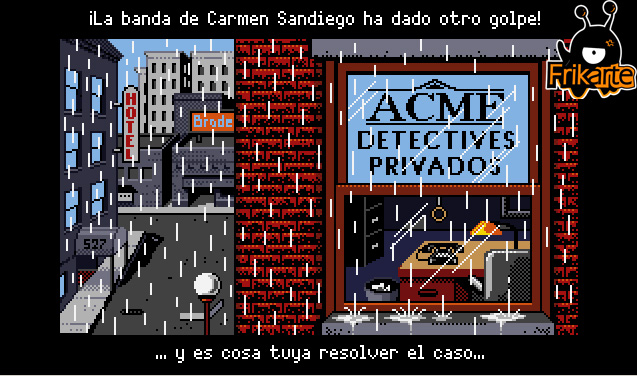
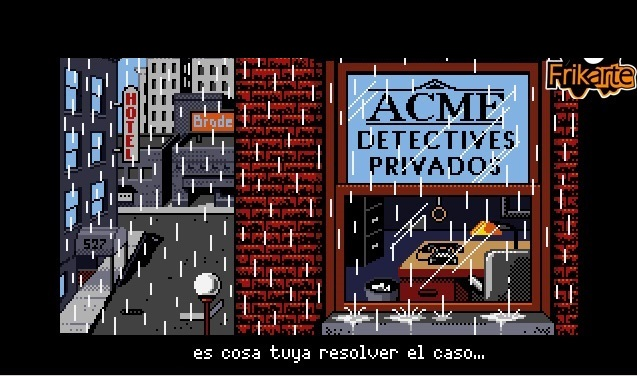
Subo por ahora lo que hay de la vista. NOTA: En la clase MenuBase fui poniendo como comentario todo el manejo de consola para que no se pise con la vista, pero no lo borre. Para hacerlo correr por consola simplemente hay que borrar los /* */ que agregue y ponerselos a los metodos de vista que llama.

diff --git a/tp2Algo3/src/Vista/Vista.java b/tp2Algo3/src/Vista/Vista.java
@@ -2,9 +2,10 @@ package Vista;
 
 
 import javax.swing.*;
-
 import javax.swing.border.EmptyBorder;
 
+import modelo.elementosDelJuego.Tiempo;
+import modelo.geografico.Ciudad;
 import modelo.juego.MenuBase;
 import controlador.ControlMenu.Controlador;
 
@@ -16,11 +17,13 @@ public class Vista extends JFrame implements Observer{
 
 	private MenuBar menuBarra;
 	private Menu menu1, menu2, menu3;
-	private MenuItem nuevo, guardar, salir, creditos;
+	private MenuItem nuevo, guardar, salir, creditos, cargarPartida;
 	protected VistaPrincipalImagen imagen;
 	protected Controlador control;
 	
 	private static final long serialVersionUID = 1L;
+	
+	private char comilla = (char)34;
 	
 	//Clase auxiliar para escuchar el evento de cerrado de la ventana principal
 	public static class CloseListener extends WindowAdapter
@@ -49,7 +52,7 @@ public class Vista extends JFrame implements Observer{
 		
 		this.setName("ALGOTHIEF GRUPO X");
 		this.setDefaultCloseOperation(JFrame.EXIT_ON_CLOSE);
-		setBounds(50, 50, 700, 500);
+		setBounds(150, 150, 700, 500);
 		
 		menuBarra = new MenuBar();
 		menu1 = new Menu("Juego");
@@ -57,11 +60,13 @@ public class Vista extends JFrame implements Observer{
 		nuevo.addActionListener(control.getListenerNuevo());
 		guardar = new MenuItem("Guardar");
 		guardar.addActionListener(control.getListenerGuardar(this));
+		cargarPartida = new MenuItem("Cargar partida guardada");
 		salir = new MenuItem("Salir");
 		salir.addActionListener(control.getListenerSalir());
 		
 		menu1.add(nuevo);
 		menu1.add(guardar);
+		menu1.add(cargarPartida);
 		menu1.addSeparator();
 		menu1.add(salir);
 		
@@ -82,13 +87,27 @@ public class Vista extends JFrame implements Observer{
 		
 	}
 	
-	public void setImagen(String imagenPath){
-		imagen = new VistaPrincipalImagen(imagenPath);
-		imagen.setBorder(new EmptyBorder(5, 5, 5, 5));
-		imagen.setLayout(new BorderLayout(0, 0));
-		setContentPane(imagen);
+	public void VistaJuegoNuevo(MenuBase unMenuBase){
+		this.setImagen("imagenesVista/juegoNuevo.jpg");
+		this.setVisible(true);
+		String descripcionRobo = unMenuBase.getJuego().obtenerCaso().obtenerDescripcionDelRobo();
+		String horario = Tiempo.tiempoComoString();
+		String texto =  "<html><font color = " + comilla + "red" + comilla +  "size = 4>" + descripcionRobo.substring(0, 9) +
+						"</font><br><font color = " + comilla + "red" + comilla + "size = 3>" + descripcionRobo.substring(10, descripcionRobo.length()) +
+						"</font><br>" + "</font><br><font color = " + comilla + "red" + comilla + "size = 3>" + horario + "<font><html>";
+		System.out.println(texto);
+		JLabel panelTexto = new JLabel();
+		panelTexto.setText(texto);
+		
+		this.add("North", panelTexto);
+		
+		JButton botonComenzar = new JButton();
+		botonComenzar.setText("Comenzar investigacion");
+		botonComenzar.addActionListener(control.getListenerComenzarInvestigacion());
+		add("South", botonComenzar);
+		
+		this.setVisible(true);
 	}
-	
 	
 	public void imprimirTexto(String texto){
 		JLabel label = new JLabel();
@@ -102,12 +121,64 @@ public class Vista extends JFrame implements Observer{
 		
 	}
 	
+	public void setImagen(String imagenPath){
+		imagen = new VistaPrincipalImagen(imagenPath);
+		imagen.setBorder(new EmptyBorder(5, 5, 5, 5));
+		imagen.setLayout(new BorderLayout(0, 0));
+		setContentPane(imagen);
+	}
+	
 	public void vistaCiudad(String unaCiudad){
-		String ubicacionCiudad = "imagenesVista/ciudades/" + unaCiudad + ".jpg";
+		
+		String ubicacionCiudad = "imagenesVista/ciudades/" + unaCiudad.toLowerCase() + ".jpg";
 		VistaPrincipalImagen p = new VistaPrincipalImagen(ubicacionCiudad);
 		p.setBorder(new EmptyBorder(5, 5, 5, 5));
 		p.setLayout(new BorderLayout(0, 0));
 		setContentPane(p);
+		
+		//@TODO : Corregir este mamarracho
+		String horario = "<html><font color = " + comilla + "white" + comilla + "size = 4>" + 
+						 Tiempo.tiempoComoString()+ 
+						 "</font>" + "<br><br><font color = " + comilla + "white" + comilla + "size = 3>" +
+						 "Usted se encuentra en: " + unaCiudad + "&nbsp&nbsp&nbsp&nbsp&nbsp&nbsp&nbsp&nbsp&nbsp&nbsp&nbsp&nbsp&nbsp&nbsp&nbsp&nbsp&nbsp&nbsp&nbsp&nbsp</font></html>";
+		
+		JLabel panelTiempo = new JLabel();
+		panelTiempo.setText(horario);
+		add("East", panelTiempo);
+		
+		
+		
+		JButton botonViajar = new JButton();
+		botonViajar.setText("Viajar a otra ciudad");
+		botonViajar.addActionListener(control.getListenerViajar());
+		JButton botonVisitarLugar = new JButton();
+		botonVisitarLugar.setText("Visitar lugar");
+		JButton botonEmitirOrdenArresto = new JButton();
+		botonEmitirOrdenArresto.setText("Emitir orden de arresto");
+		JPanel panelBotones = new JPanel();
+		panelBotones.add(botonViajar);
+		panelBotones.add(botonVisitarLugar);
+		panelBotones.add(botonEmitirOrdenArresto);
+		
+		add("South", panelBotones);
+		
+		this.setVisible(true);
+	}
+	
+	public void vistaViajar(ArrayList<Ciudad> ciudadesDisponibles){
+		
+		this.setImagen("imagenesVista/mapa.jpg");
+		this.setVisible(true);
+		
+		JPanel panel = new JPanel(); 
+		
+		for (Ciudad unaCiudad: ciudadesDisponibles){
+			panel.add(new Button(unaCiudad.getNombre()));
+		}
+		
+		add("South", panel);
+		panel.setVisible(true);
+		this.setVisible(true);
 	}
 
 	private class EscuchaBotonCreditos implements ActionListener{

diff --git a/tp2Algo3/src/modelo/juego/MenuBase.java b/tp2Algo3/src/modelo/juego/MenuBase.java
@@ -22,6 +22,17 @@ public class MenuBase{
     private int opcionMenuBase, opcionMenuPrincipal;
  
     private Vista vista;
+    
+    public Vista getVista(){
+    	return this.vista;
+    }
+    public Juego getJuego(){
+    	return this.juego;
+    }
+    
+    public Policia getPolicia(){
+    	return this.policia;
+    }
 	
 	public MenuBase(){
 		this.vista = new VistaPrincipal(this);
@@ -58,8 +69,11 @@ public class MenuBase{
 	
     public void nuevoJuego(){
     	
+       juego = new Juego();
+       policia=juego.obtenerPolicia();
+       vista.VistaJuegoNuevo(this);
+/*
         in = new Scanner(System.in);
-
         System.out.println("AlgoThieft");
         System.out.println("1. Comenzar juego");
         System.out.println("2. Salir");
@@ -99,9 +113,13 @@ public class MenuBase{
             }
         } while (!quit);
         System.out.println("goodbye Gadget!!");
+       */
     }
     public void menuPrincipal(){
     	
+    	vista.vistaCiudad(policia.obtenerCiudadActual().getNombre());
+    	
+    	/*
         System.out.println("Usted se encuentra en: "+policia.obtenerCiudadActual().getNombre());
         System.out.println(Tiempo.tiempoComoString());
         System.out.println("1. Viajar a otra ciudad");
@@ -129,19 +147,22 @@ public class MenuBase{
                 System.out.println("El juego ha sido guardado");
                 break;
             default: System.out.println("Eleccion Invalida.");
-        }
+        }*/
     }
 
     public void menuViajar(){
         int opcion;
         ArrayList<Ciudad> ciudadesDisponibles=policia.obtenerCiudadActual().obtenerCiudadesDestinoDisponibles();
-        for(Ciudad ciudad: ciudadesDisponibles){
+        vista.vistaViajar(ciudadesDisponibles);
+        /*for(Ciudad ciudad: ciudadesDisponibles){
             System.out.println((ciudadesDisponibles.indexOf(ciudad)+1)+". "+ciudad.getNombre());
         }
         opcion = in.nextInt();
         policia.viajarA(ciudadesDisponibles.get(opcion-1));
-        menuPrincipal();
+        menuPrincipal();*/
     }
+    
+    
     public void menuVisitar(){
         int opcion;
         ArrayList<Lugar> lugaresDisponibles=policia.obtenerCiudadActual().obtenerLugaresDisponibles();

diff --git a/tp2Algo3/src/controlador/ControlMenu/Controlador.java b/tp2Algo3/src/controlador/ControlMenu/Controlador.java
@@ -25,7 +25,8 @@ public class Controlador {
 		
 		public void actionPerformed(ActionEvent e){
 			System.out.println("El juego se crea");
-			menuBase.setOpcionMenuBase(1);
+			//menuBase.setOpcionMenuBase(1);
+			menuBase.nuevoJuego();
 		}
 		public EscuchaBotonNuevo(){
 		}
@@ -76,7 +77,7 @@ public class Controlador {
 		public void actionPerformed(ActionEvent e){
 			//VIAJAR
 			System.out.println("Viajando...");
-			menuBase.setOpcionMenuPrincipal(1);
+			menuBase.menuViajar();
 		}
 	}
 	
@@ -107,5 +108,15 @@ public class Controlador {
 	
 	public ActionListener getListenerOrdenArresto() {
 		return new EscuchaBotonOrdenArresto();
+	}
+	
+	private class EscuchaBotonComenzarInvestigacion implements ActionListener{
+
+		public void actionPerformed(ActionEvent arg0) {
+			menuBase.menuPrincipal();
+		}
+	}
+	public ActionListener getListenerComenzarInvestigacion(){
+		return new EscuchaBotonComenzarInvestigacion();
 	}
 }

diff --git a/tp2Algo3/src/modelo/juego/main.java b/tp2Algo3/src/modelo/juego/main.java
@@ -5,7 +5,7 @@ public class main {
     public static void main(String args[]){
     	
     	MenuBase menu = new MenuBase();
-		menu.nuevoJuego();
+		//menu.nuevoJuego();
     }
 
 }

diff --git a/tp2Algo3/src/Vista/PanelDeTexto.java b/tp2Algo3/src/Vista/PanelDeTexto.java
@@ -1,0 +1,9 @@
+package Vista;
+
+import javax.swing.JPanel;
+
+public class PanelDeTexto extends JPanel{
+
+	
+	
+}
